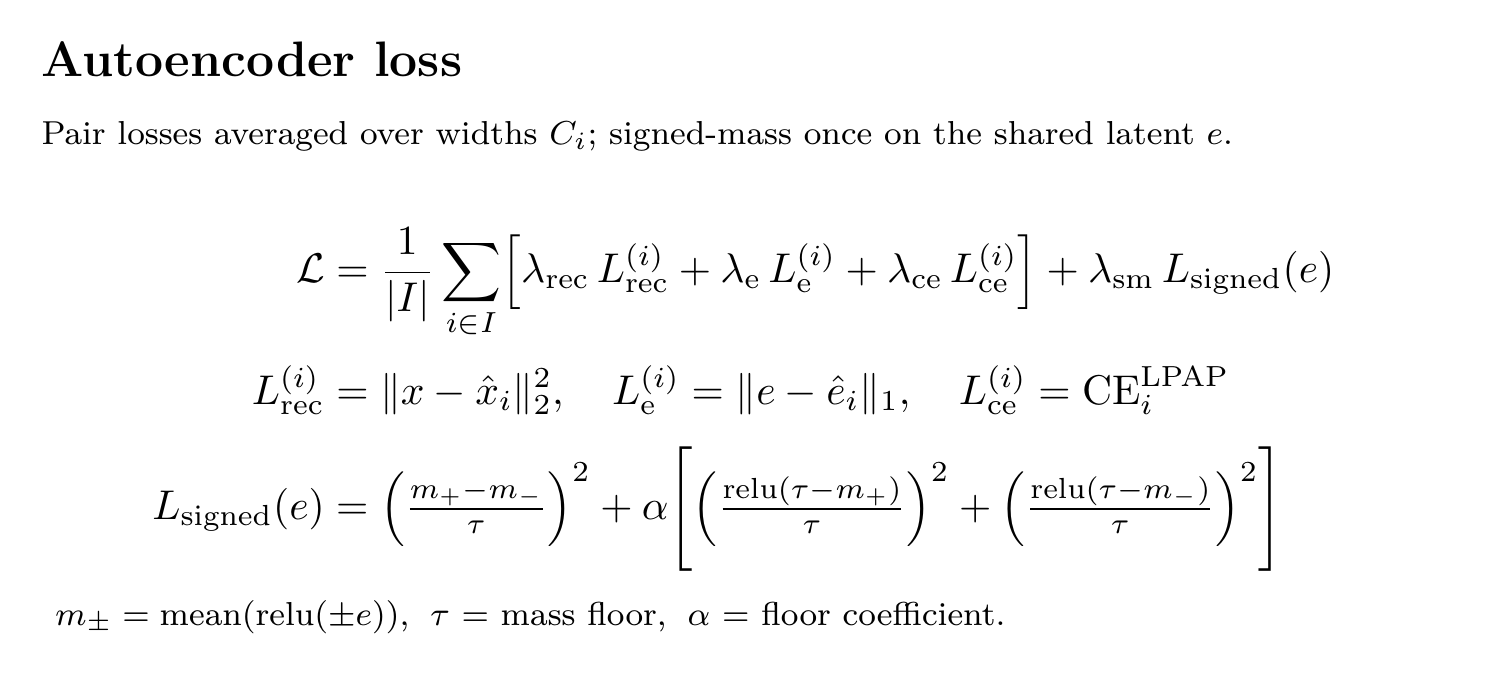
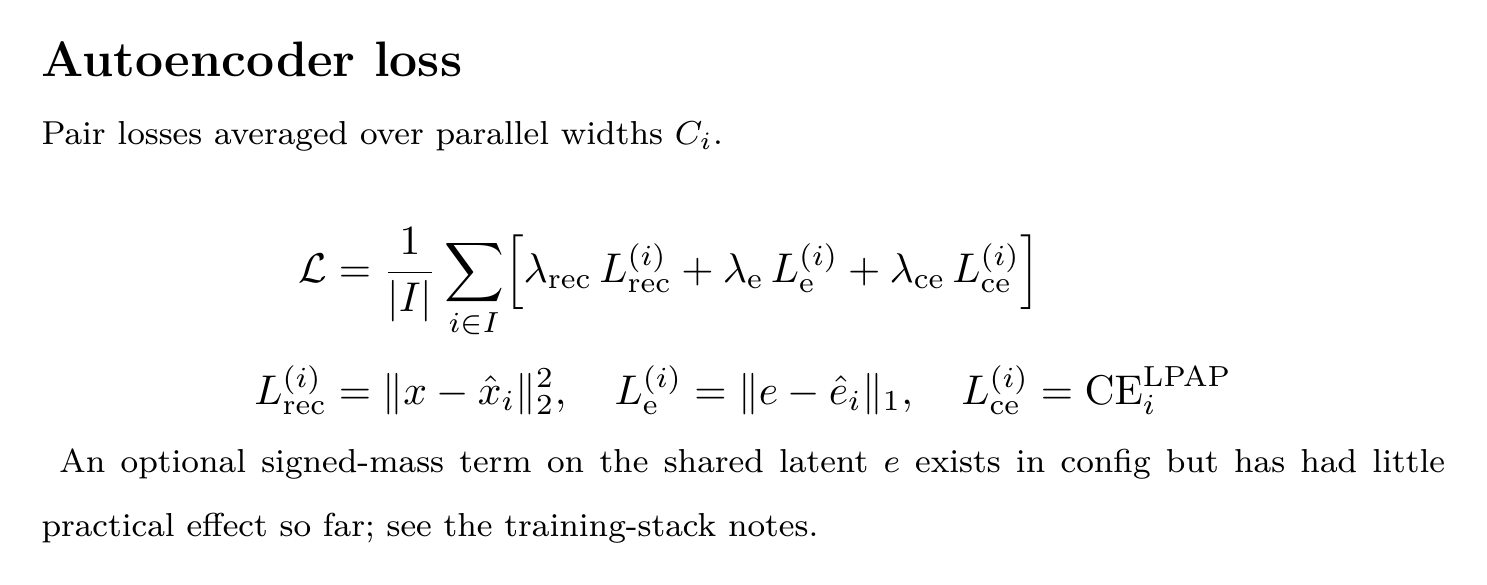
Demote signed-mass to a side note in the README loss figure.
Keep the headline AE objective as reconstruction + energy L1 + LPAP CE; the
signed-mass term remains available in config but has been minor in practice.

diff --git a/doc/tex/ae_loss.tex b/doc/tex/ae_loss.tex
@@ -7,8 +7,7 @@
 \begin{minipage}{0.98\linewidth}
 {\large\bfseries Autoencoder loss}\\[0.45em]
 {\footnotesize
-Pair losses averaged over widths $C_i$;
-signed-mass once on the shared latent $e$.
+Pair losses averaged over parallel widths $C_i$.
 }\\[0.7em]
 \[
 \setlength{\jot}{0.55em}
@@ -23,8 +22,6 @@ signed-mass once on the shared latent $e$.
   +
   \lambda_{\mathrm{ce}}\,L_{\mathrm{ce}}^{(i)}
 \Bigr]
-+
-\lambda_{\mathrm{sm}}\,L_{\mathrm{signed}}(e)
 \\
 L_{\mathrm{rec}}^{(i)}
 &=
@@ -37,23 +34,12 @@ L_{\mathrm{e}}^{(i)}
 L_{\mathrm{ce}}^{(i)}
 =
 \mathrm{CE}_{i}^{\mathrm{LPAP}}
-\\
-L_{\mathrm{signed}}(e)
-&=
-\Bigl(\tfrac{m_{+}-m_{-}}{\tau}\Bigr)^{2}
-+
-\alpha\Biggl[
-  \Bigl(\tfrac{\mathrm{relu}(\tau-m_{+})}{\tau}\Bigr)^{2}
-  +
-  \Bigl(\tfrac{\mathrm{relu}(\tau-m_{-})}{\tau}\Bigr)^{2}
-\Biggr]
 \end{aligned}
 \]
-\vspace{0.25em}
+\vspace{0.35em}
 {\footnotesize
-$m_{\pm}=\mathrm{mean}(\mathrm{relu}(\pm e))$,\;
-$\tau$ = mass floor,\;
-$\alpha$ = floor coefficient.
+An optional signed-mass term on the shared latent $e$ exists in config but has
+had little practical effect so far; see the training-stack notes.
 }
 \end{minipage}
 \end{document}

diff --git a/README.md b/README.md
@@ -71,7 +71,9 @@ flowchart LR
 
 ![Autoencoder loss](doc/assets/ae-loss.png)
 
-*[Source TeX](doc/tex/ae_loss.tex)* · regenerate with `pixi run tex-ae-loss`
+*[Source TeX](doc/tex/ae_loss.tex)* · regenerate with `pixi run tex-ae-loss`.
+Optional signed-mass on $e$ is configured in TOML but has been a minor lever in
+practice — details in [training stack](doc/training-stack.md).
 
 ## Documentation
 
